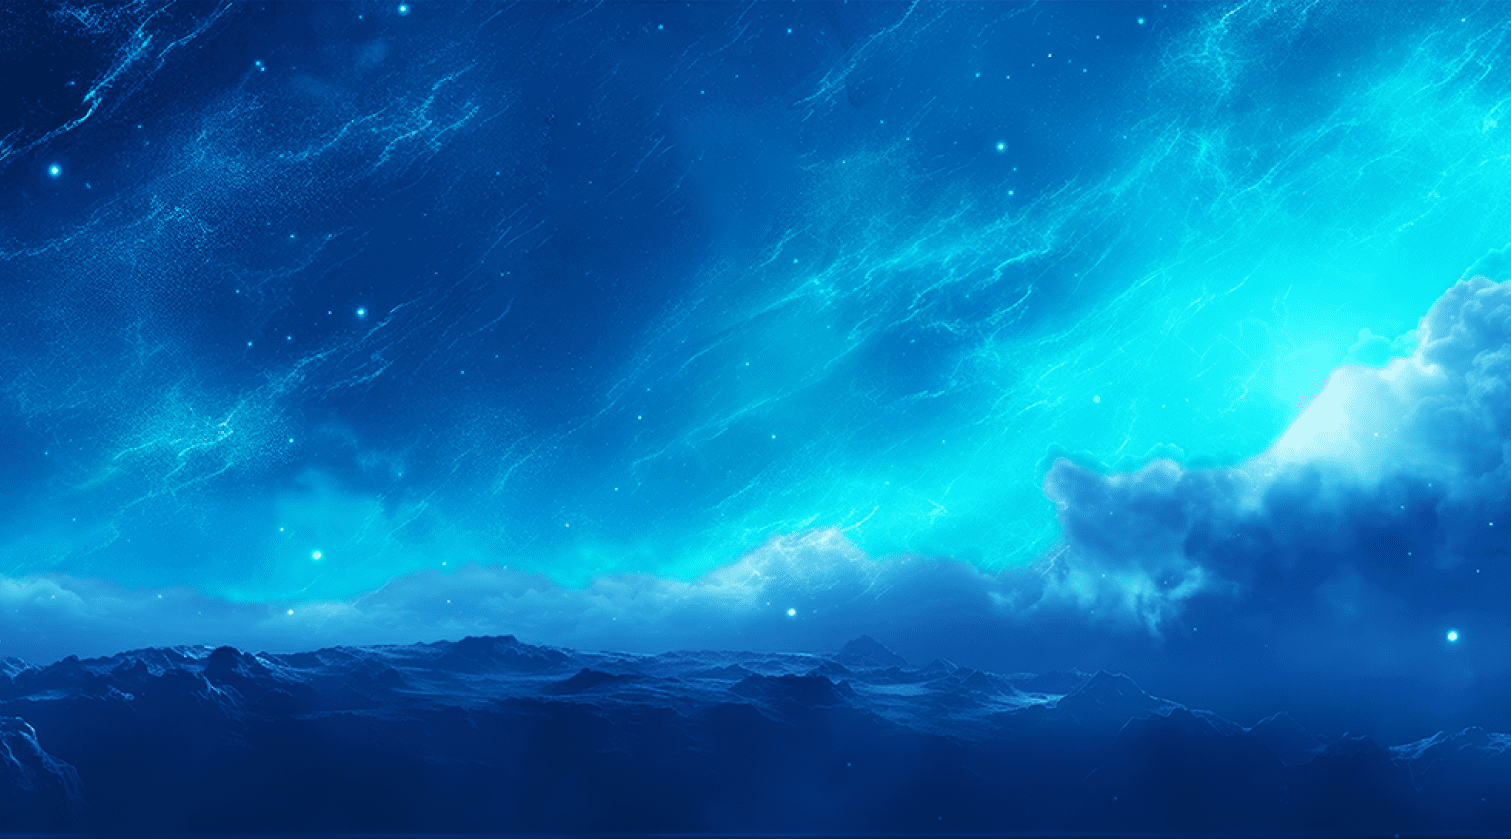
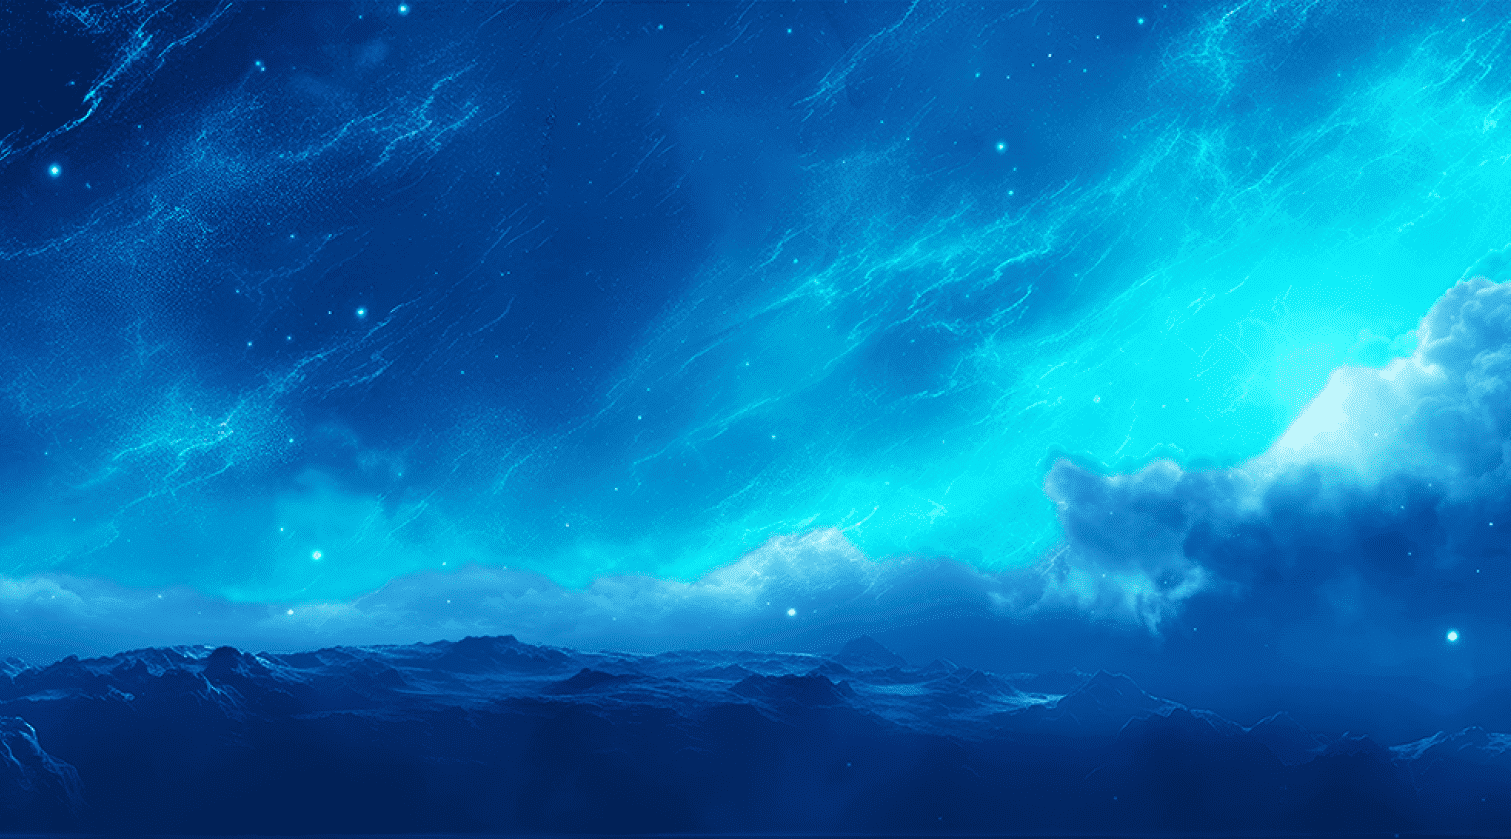
converted to webp images

diff --git a/index.html b/index.html
@@ -133,13 +133,13 @@
         <div class="building-cyberpunk" id="building-cyberpunk">
             <div class="typeface-packet">
 
-                <img class="typeface" src="images/EsummitTypeface.png" alt="" srcset="" loading="lazy">
+                <img class="typeface" src="images/esummittypeface-650f34f631067.webp" alt="" srcset="" loading="lazy">
                 <span class="text-for-dates">13TH - 15TH OCTOBER</span>
                 <a href="https://forms.gle/6fmWd29H51sjxcBTA"><img class="register-now-image" src="./images/registerNowButton.png" alt="" srcset=""></a> 
             </div>
-            <img class="buildings-cyberpunk-up" src="./images/landing (1).png" alt="" srcset="" loading="lazy">
-            <img class="cloud-front" src="./images/cloud front 2 1 (1).png" alt="" srcset="">
-            <img class="buildings" src="./images/buildings (1).png" alt="" srcset="">
+            <img class="buildings-cyberpunk-up" src="./images/landing-1-650f34fc19c20.webp" alt="" srcset="" loading="lazy">
+            <img class="cloud-front" src="./images/cloud-front-2-1-1-650f34f452766.webp" alt="" srcset="">
+            <img class="buildings" src="./images/buildings-1-650f34eea3e8c.webp" alt="" srcset="">
         </div>
         <div class="landing-page-content">
             <!-- <img class="buildings-cyberpunk-down" src="./images/landing.png" alt="" srcset=""> -->
@@ -222,7 +222,7 @@
                     </div>
                 </div>
                 <div class="esummit-aftermovie" id="esummit-aftermovie">
-                    <img class="videoFrameOfAfterMovie" src="./images/videoFrameAftermovie.png" alt="" srcset=""
+                    <img class="videoFrameOfAfterMovie" src="./images/videoframeaftermovie-650f35182eda2.webp" alt="" srcset=""
                         loading="lazy">
                     <video controls muted autoplay>
                         <source src="./videos/aftermovie.mp4" type="video/mp4">
@@ -230,9 +230,9 @@
                 </div>
             </div>
             <div class="what-is-esummit">
-                <img class="what-is-esummit-astronaut" src="./images/astronaut (2)-min.png" alt="" srcset="" loading="lazy">
-                <img class="what-is-esummit-img" src="./images/whatIsEsummit.png" alt="" srcset="" loading="lazy">
-                <img class="what-is-esummit-vector" src="./images/whatIsEsummitVector.png" alt="" srcset=""
+                <img class="what-is-esummit-astronaut" src="./images/astronaut-2-min-650f34ea2653b.webp" alt="" srcset="" loading="lazy">
+                <img class="what-is-esummit-img" src="./images/whatisesummit-650f351a25082.webp" alt="" srcset="" loading="lazy">
+                <img class="what-is-esummit-vector" src="./images/whatisesummitvector-650f351aea347.webp" alt="" srcset=""
                     loading="lazy">
                 <div class="what-is-esummit-heading">WHAT IS <br> E-SUMMIT?</div>
                 <div class="what-is-esummit-content">
@@ -244,9 +244,9 @@
                 </div>
             </div>
             <div class="esummit-theme">
-                <img class="astronaut-2" src="./images/astronaut2.png" alt="" srcset="" loading="lazy">
+                <img class="astronaut-2" src="./images/astronaut2-650f34eb43011.webp" alt="" srcset="" loading="lazy">
                 <div class="esummit-theme-left">
-                    <img class="themeVector" src="./images/themeVector.png" alt="" srcset="" loading="lazy">
+                    <img class="themeVector" src="./images/themevector-650f351637ee3.webp" alt="" srcset="" loading="lazy">
                     <div class="esummit-theme-heading">E-SUMMIT'23- <br> INQUISITION OF INFINITY </div>
                     <div class="esummit-theme-content">
                         Unleashing the theme of 'Inquisition' where uncharted realms await your curiosity's embrace.
@@ -365,10 +365,10 @@
 
                 <div class="card">
                     <div class="card__face card__face--front">
-                        <img src="./images/statsNew (1).png" /> 
+                        <img src="./images/statsnew-1-650f3513e8eff.webp" /> 
                     </div>
                     <div class="card__face card__face--back">
-                        <img src="./images/statsNew (1).png" />
+                        <img src="./images/statsnew-1-650f3513e8eff.webp" />
                     </div>
                 </div>
 
@@ -421,7 +421,7 @@
         </div>
     </div>
     <div class="downtown">
-        <img class="downtownBackground" src="./images/uptownBackground.png" alt="" loading="lazy">
+        <img class="downtownBackground" src="./images/uptownbackground-650f351a05d99.webp" alt="" loading="lazy">
 
         <!-- Competitions -->
         <!-- <div class="competition-heading" id="competition-heading">
